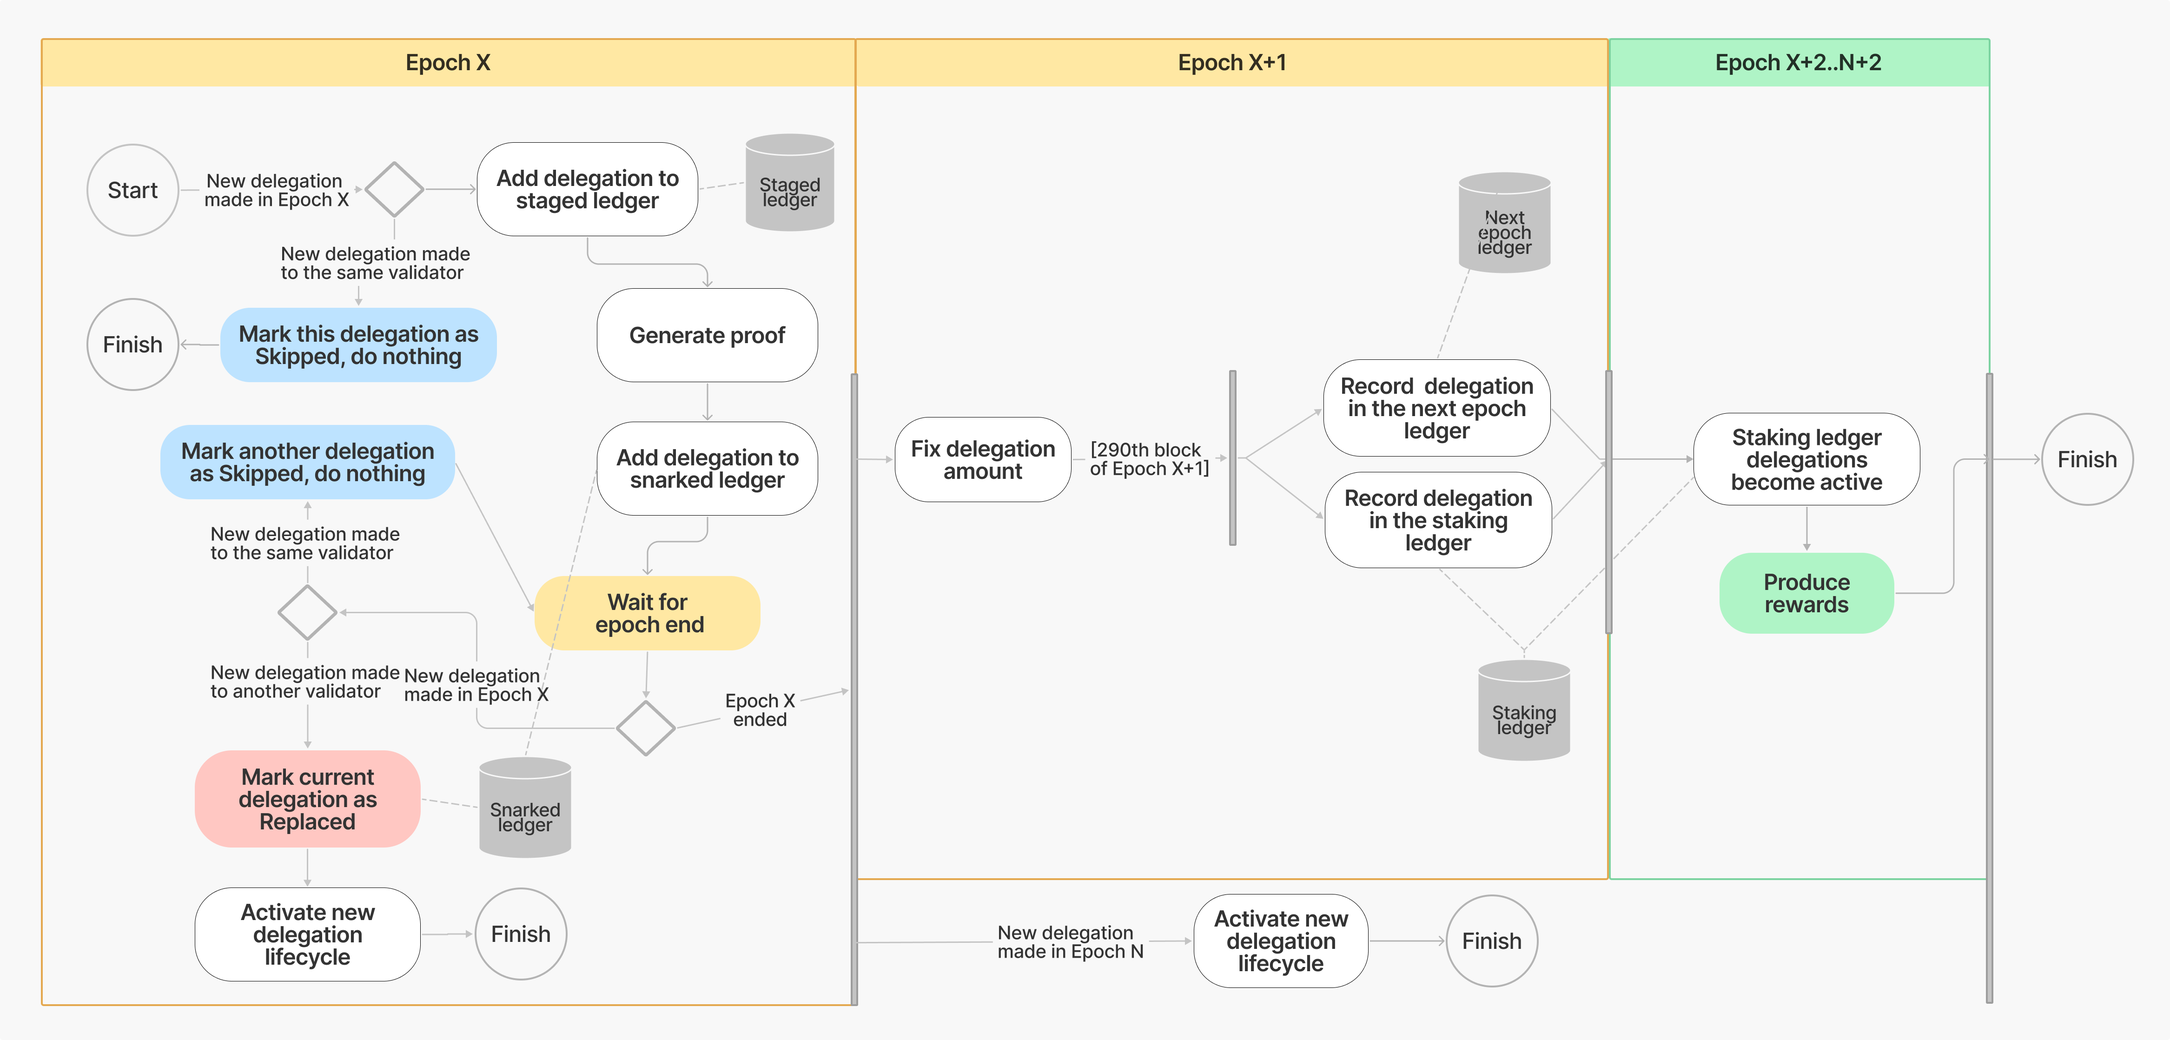
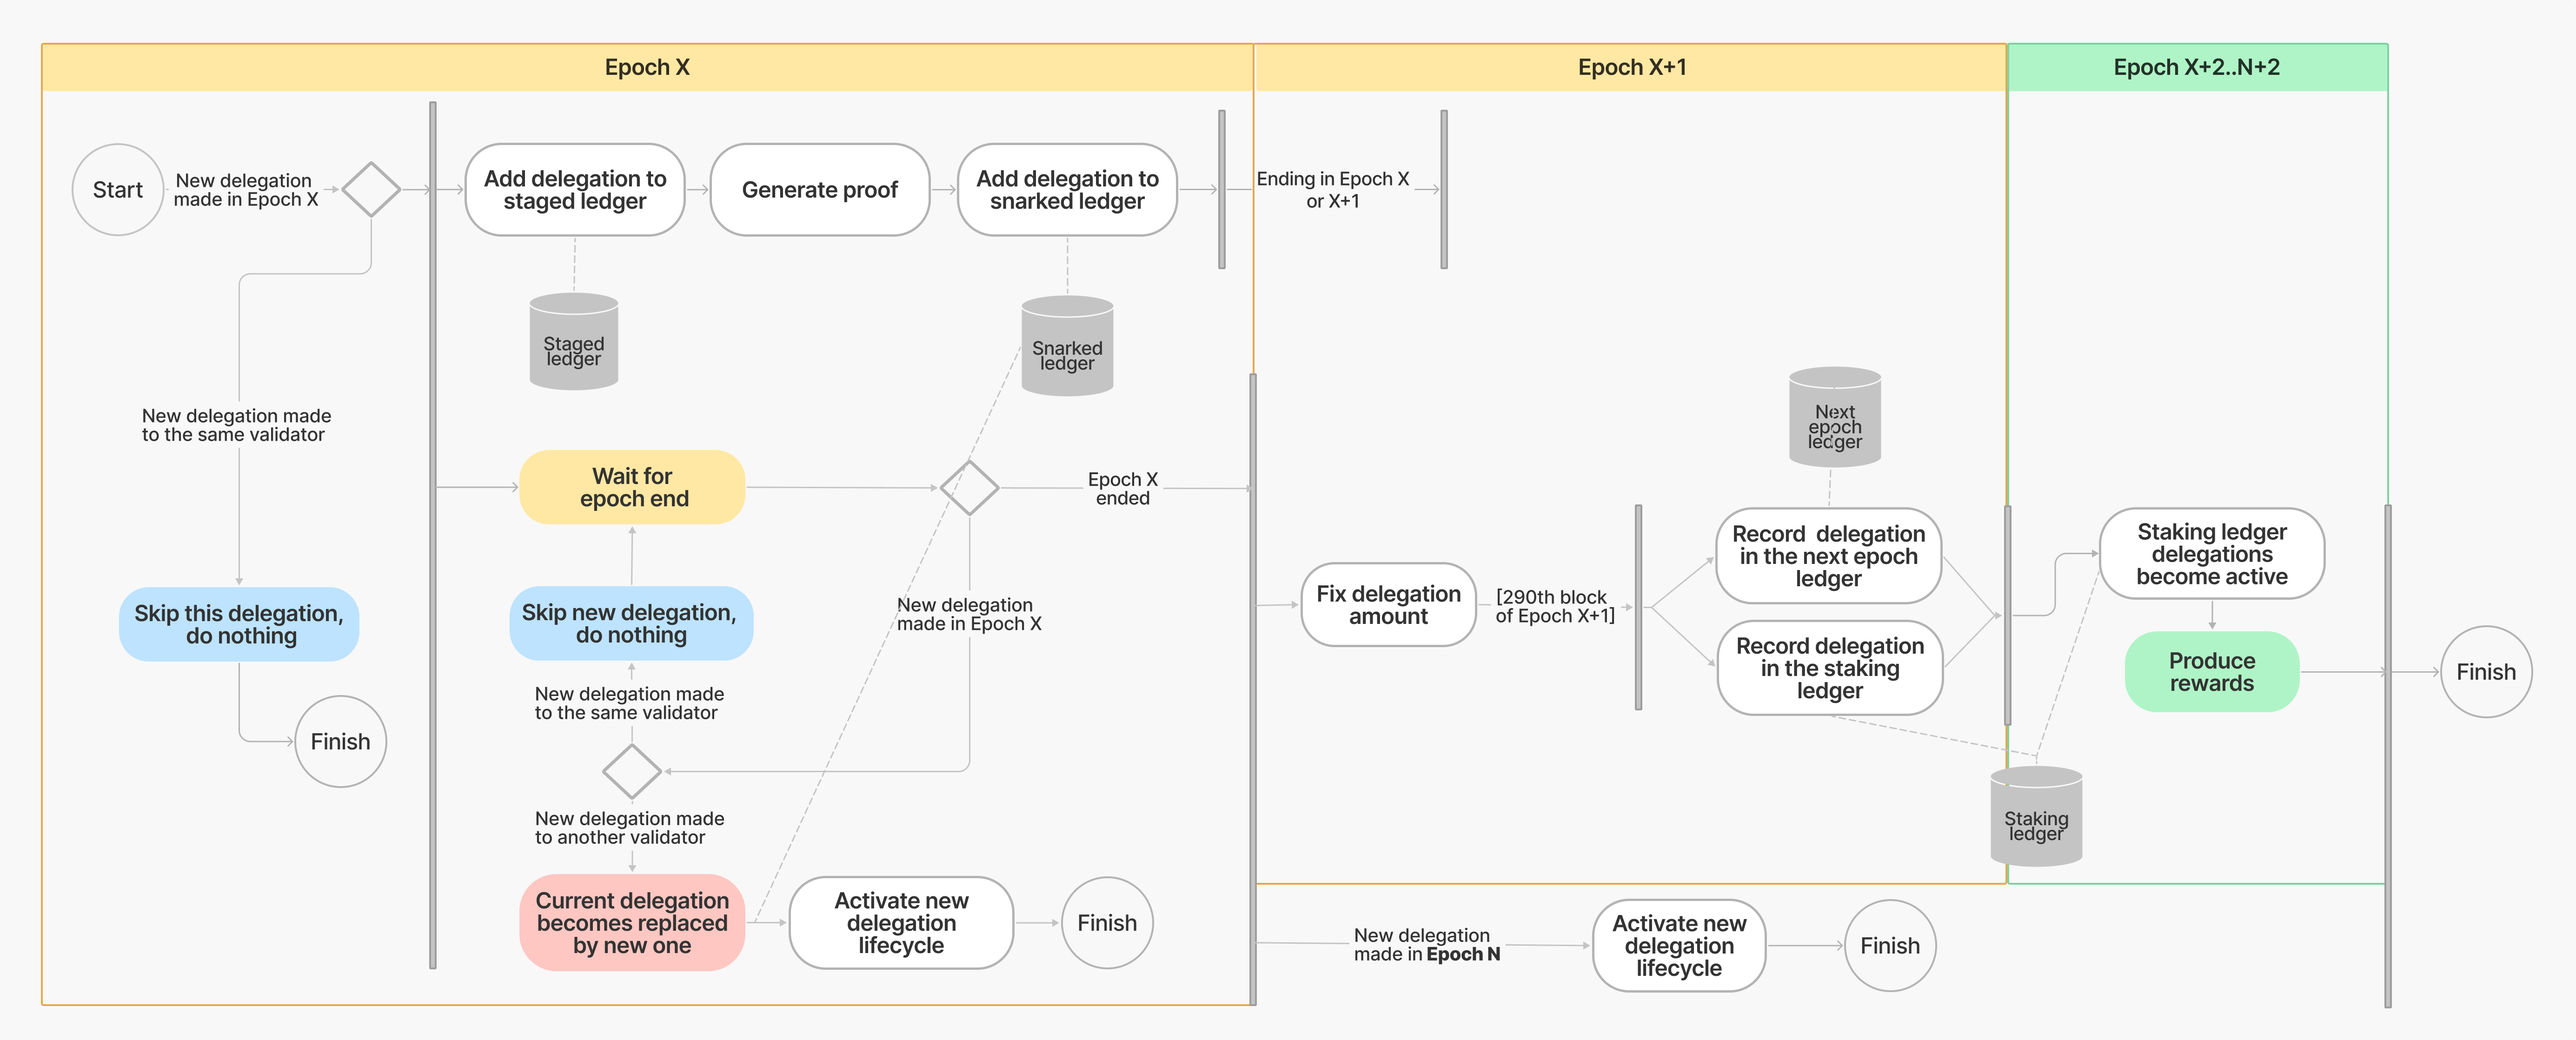
GitBook: [#138] No subject

diff --git a/academy/mina/mina-delegations-explained.md b/academy/mina/mina-delegations-explained.md
@@ -44,7 +44,7 @@ Delegation data are entered in 4 ledgers: the **snarked ledger**, the **staking 
 See [Mina glossary](mina-glossary.md).
 {% endhint %}
 
-<figure><img src="../../.gitbook/assets/AD Delegation Lifecycle (1).png" alt=""><figcaption><p><strong>Activity Diagram - Delegation transaction made in epoch X</strong></p></figcaption></figure>
+<figure><img src="../../.gitbook/assets/AD Delegation Lifecycle (2).png" alt=""><figcaption><p><strong>Activity Diagram - Delegation transaction made in epoch X</strong></p></figcaption></figure>
 
 When a delegation is made (**Epoch X**), it enters the <mark style="background-color:purple;"></mark> <mark style="background-color:purple;"></mark><mark style="background-color:purple;">**staged ledger**</mark> <mark style="background-color:purple;"></mark><mark style="background-color:purple;"></mark> . The delegation transaction enters the scan state for snark workers to generate a **snark proof** of the transaction - the amount of time this takes is dependent on the transaction throughput of the network. Once a proof containing the delegation transaction is generated a new <mark style="background-color:purple;"></mark> <mark style="background-color:purple;"></mark><mark style="background-color:purple;">**snarked ledger**</mark> <mark style="background-color:purple;"></mark><mark style="background-color:purple;"></mark> is produced.&#x20;
 
